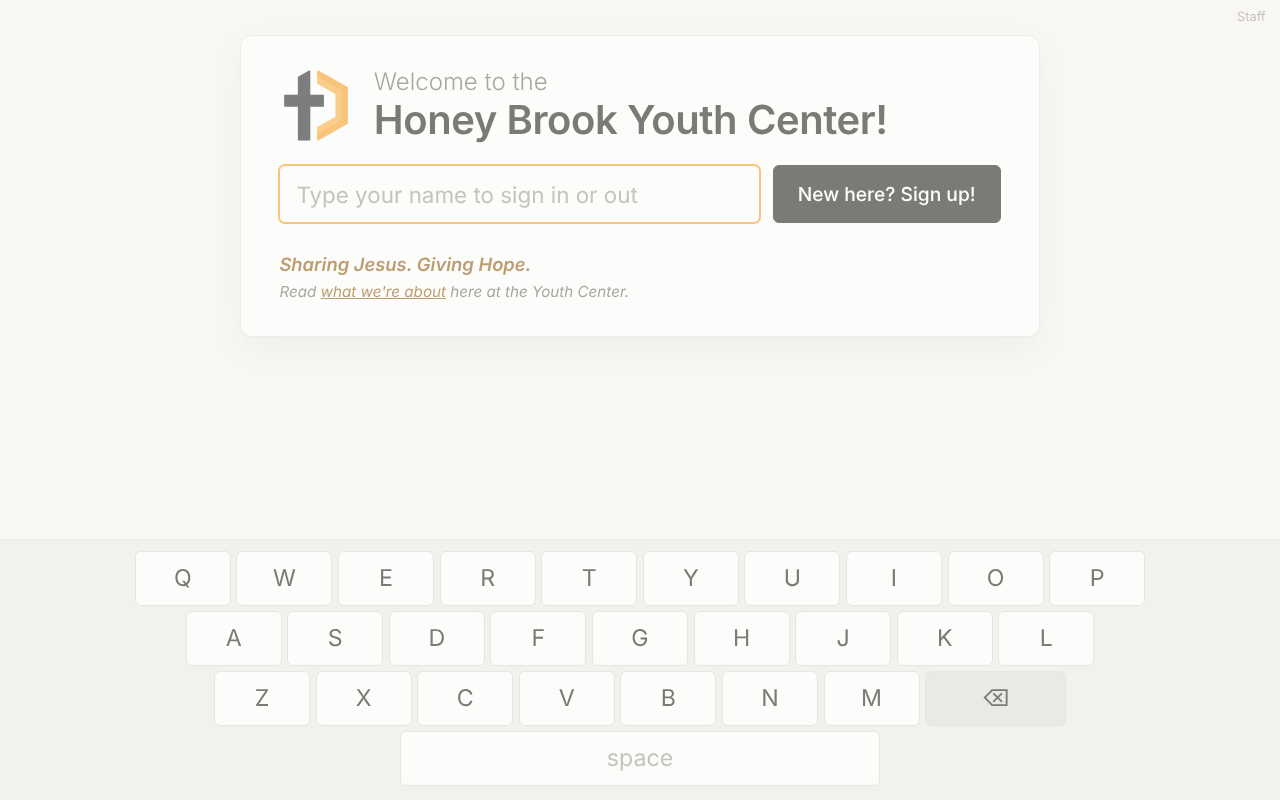
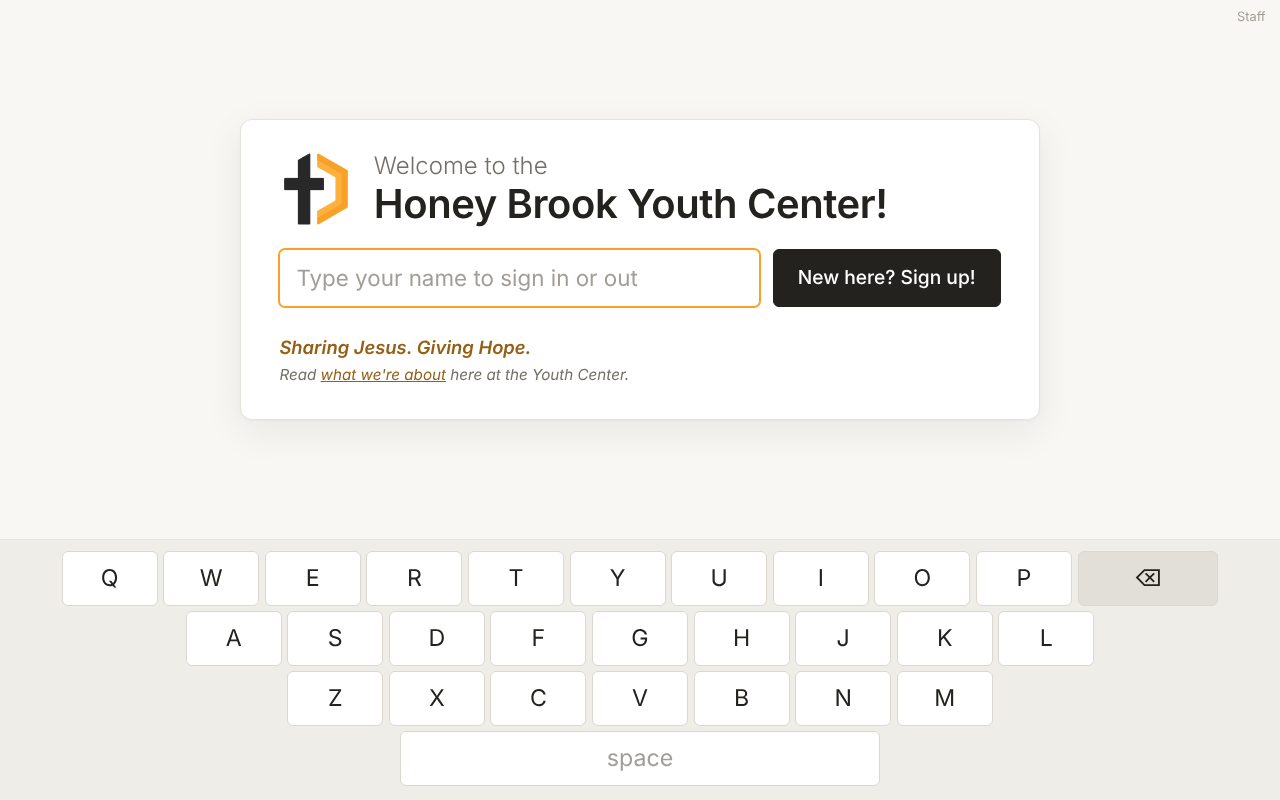
Get ready for v2.0: new kiosk screenshots, and releases made on GitHub get the download
- Retake the kiosk home and search screenshots: the card now sits in the
  middle and backspace is on the top row.
- The build adds YouthCenterSignIn.zip to a release made on GitHub's
  Releases page, instead of failing because the release already exists.
- README: the status note now says it was tried at the center, matching the
  tested section. Fix a comment about the town shortcuts.

Claude-Session: https://claude.ai/code/session_01HAFqWNrd7CNj2wazuwAFME

diff --git a/web/src/lib/center.ts b/web/src/lib/center.ts
@@ -34,5 +34,5 @@ export const WAIVER_TEXT = `By signing this agreement, I voluntarily agree to as
 /** The state most kids live in. The sign-up form starts with it filled in. */
 export const HOME_STATE = 'PA';
 
-/** Towns most kids come from. On the sign-up form, one tap fills in the city. */
+/** Towns most kids come from. On the sign-up and info forms, one tap fills in the town and state. */
 export const NEARBY_TOWNS = ['Honey Brook', 'Elverson', 'Morgantown', 'Narvon', 'Coatesville', 'Downingtown'];

diff --git a/README.md b/README.md
@@ -6,8 +6,9 @@ computer.
 
 ![The kiosk home screen](docs/screenshots/kiosk-home.png)
 
-> **Status.** This version (Rust + Svelte) replaces the old Windows app. It has not run
-> at the center yet. See [What has and hasn't been tested](#what-has-and-hasnt-been-tested).
+> **Status.** This version (Rust + Svelte) replaces the old Windows app. It has been
+> installed and tried at the center, but has not taken over from the old app yet. See
+> [What has and hasn't been tested](#what-has-and-hasnt-been-tested).
 > The old app's code is in this repo's history, before the rewrite.
 
 ## Contents
@@ -367,7 +368,9 @@ type-checks the pages and `npm test` runs their tests.
 
 GitHub Actions (`.github/workflows/signin.yml`) runs all tests on every push, builds
 `signin.exe` on Windows, and runs the installer there to check the program starts.
-Pushing a tag such as `v2.0.1` publishes `YouthCenterSignIn.zip` as a release.
+To publish a release, push a tag such as `v2.0.1`, or make the release on GitHub's
+Releases page with a new tag. Either way, the build attaches `YouthCenterSignIn.zip` to
+it when it finishes (about ten minutes).
 
 **Notes for whoever maintains this:**
 
